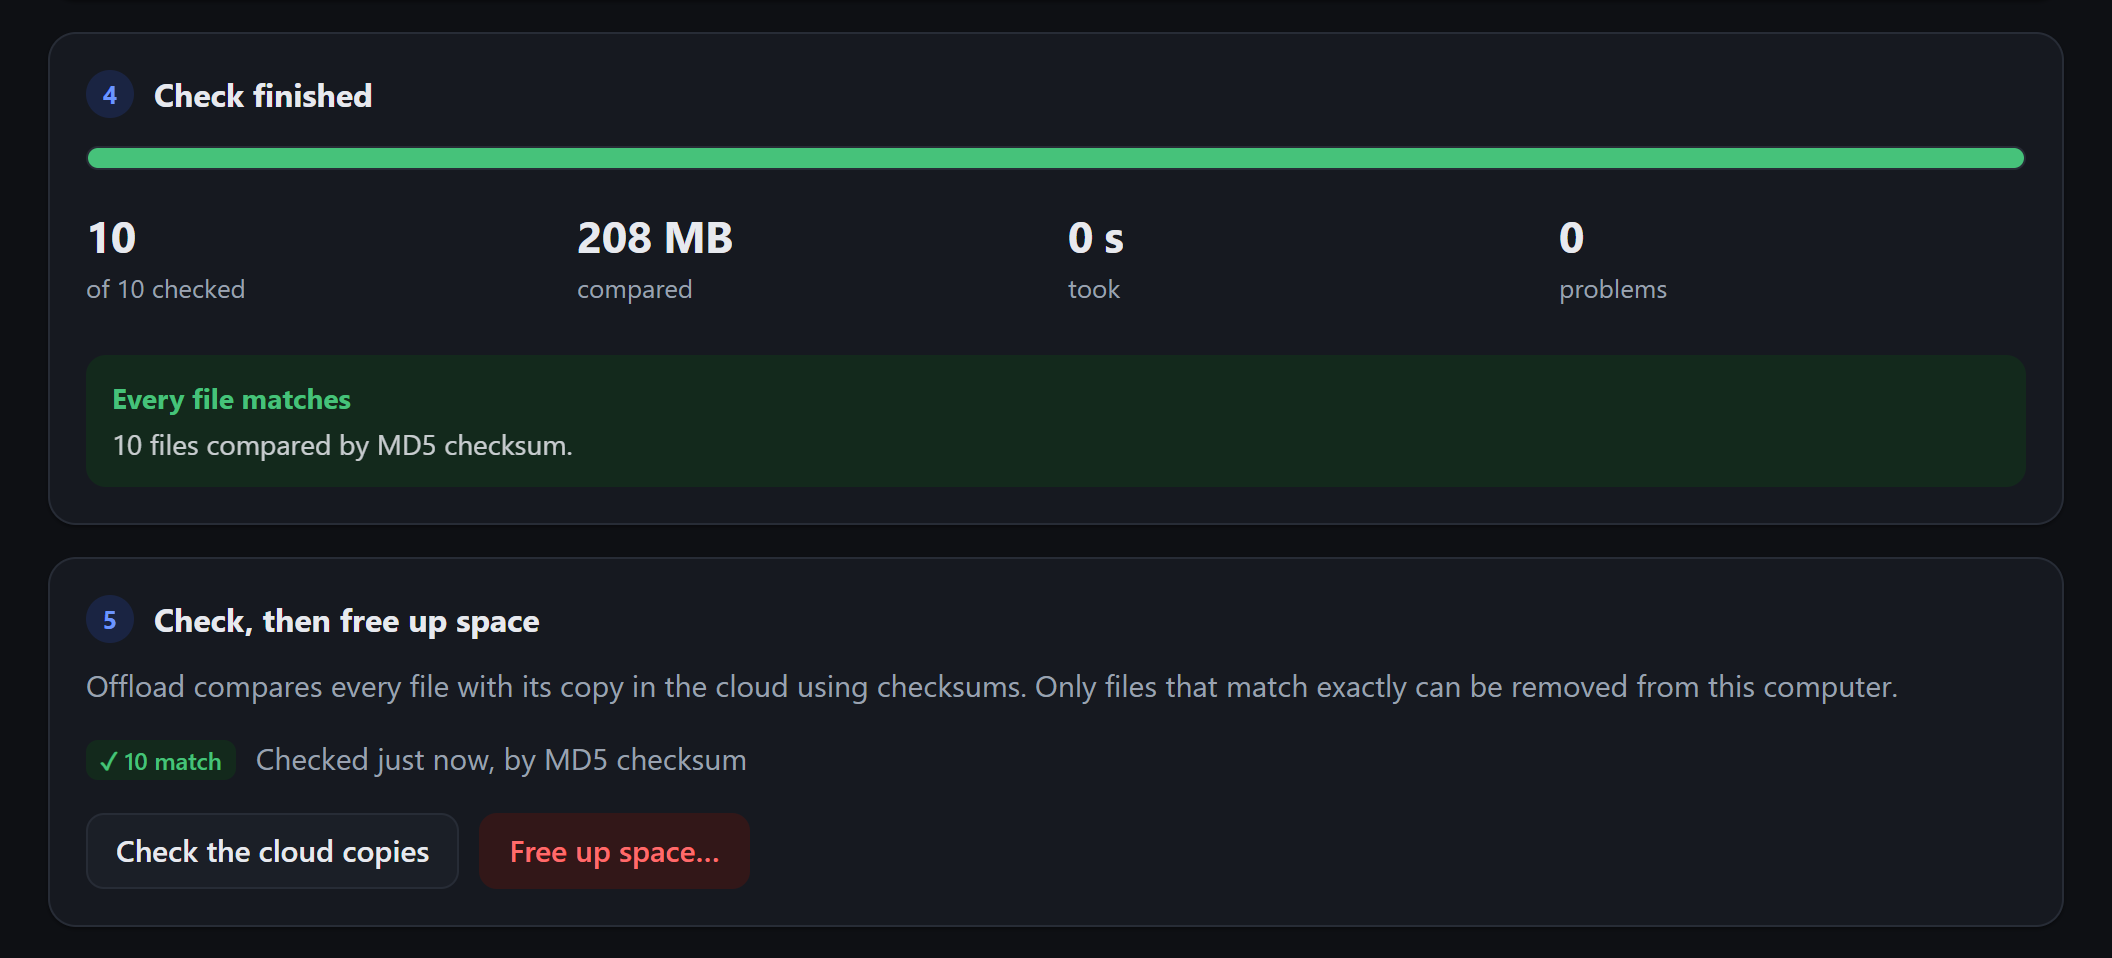
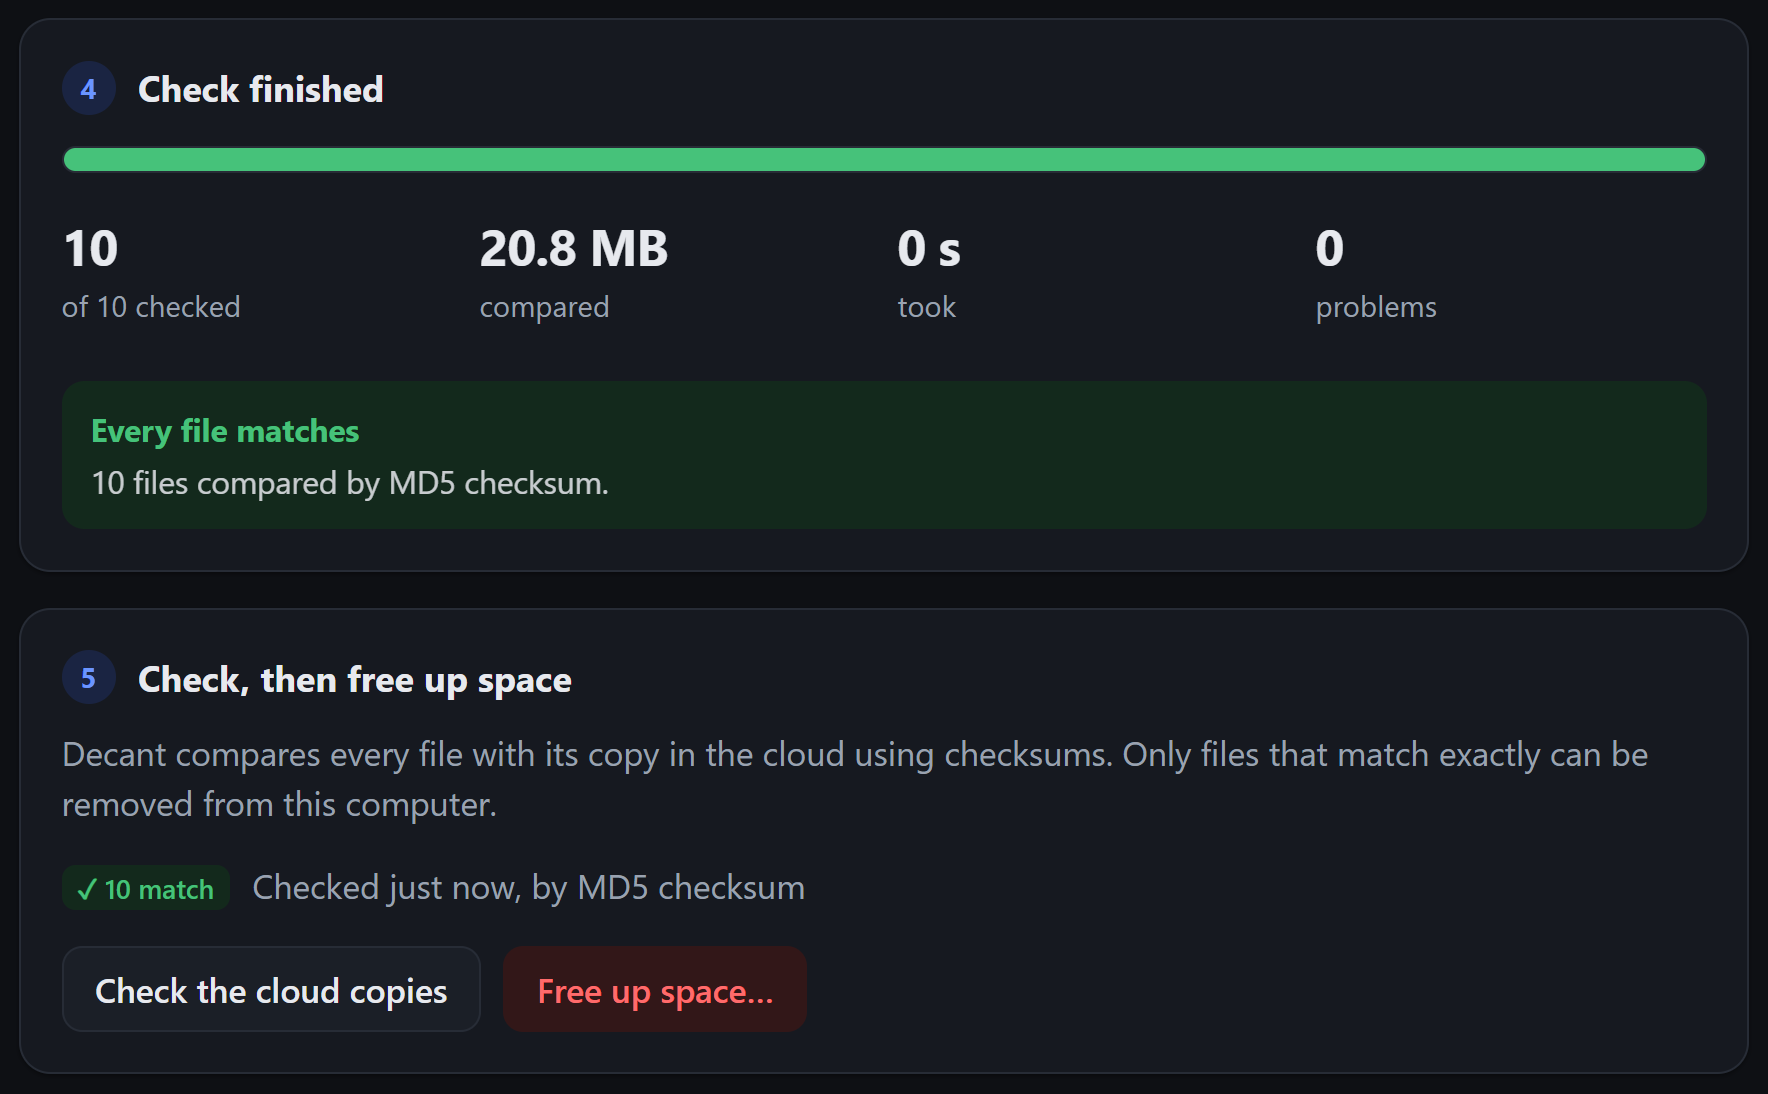
Retake the README screenshots in the Decant desktop app
The old screenshots showed the v1 browser page, still named Offload.
These come from the desktop app itself: the plan, an upload in
progress, the checksum check, and the Free up space dialog with its
Recycle Bin choice, which the README now shows too. They use demo
files and a separate rclone config, so nothing real is in them.

diff --git a/README.md b/README.md
@@ -46,6 +46,8 @@ Details: [THREAT_MODEL.md](THREAT_MODEL.md) · [SECURITY.md](SECURITY.md) · [de
 
    ![The check result: every file matches by MD5 checksum, and Free up space is now offered](docs/check.png)
 
+   ![Free up space: only the files that matched, the Recycle Bin by default with permanent deletion as a separate choice, and a confirmation before anything is removed](docs/free.png)
+
 ## Getting started
 
 **Desktop app.** Download the installer for your system from [Releases](https://github.com/dezdickey/Decant/releases). rclone comes inside it. The installers are not code-signed yet (that is planned for 2.5), so the first time you run one, Windows shows *Windows protected your PC*: choose **More info**, then **Run anyway**. On macOS, allow it in System Settings under Privacy & Security. Each release lists how to check a download is genuine before you run it.
